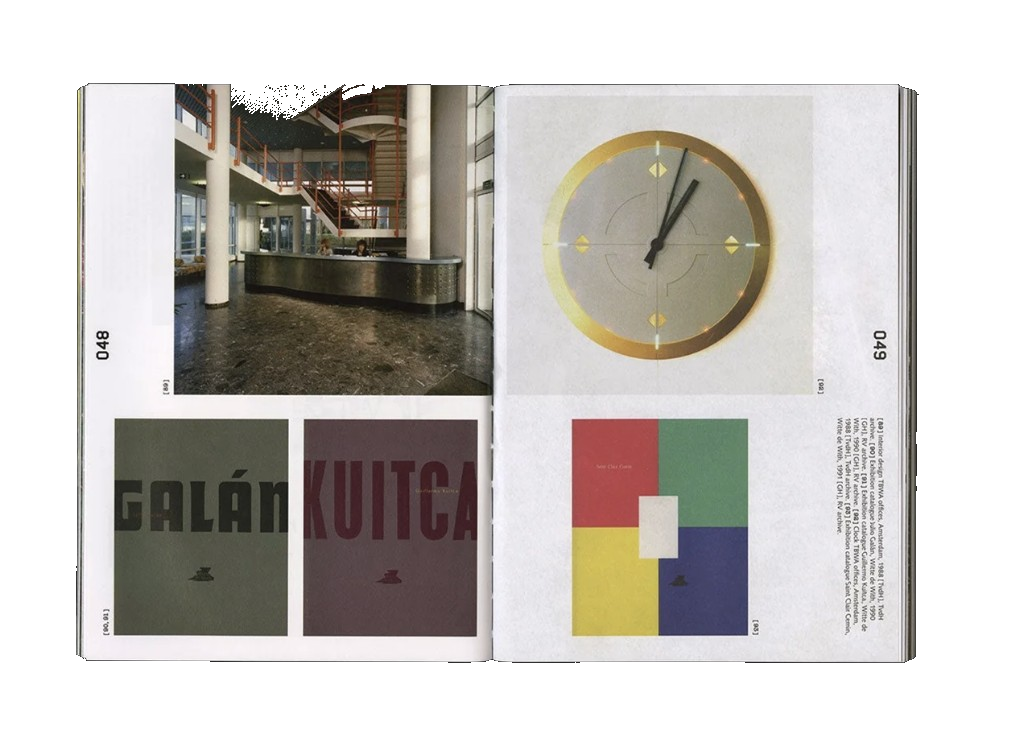
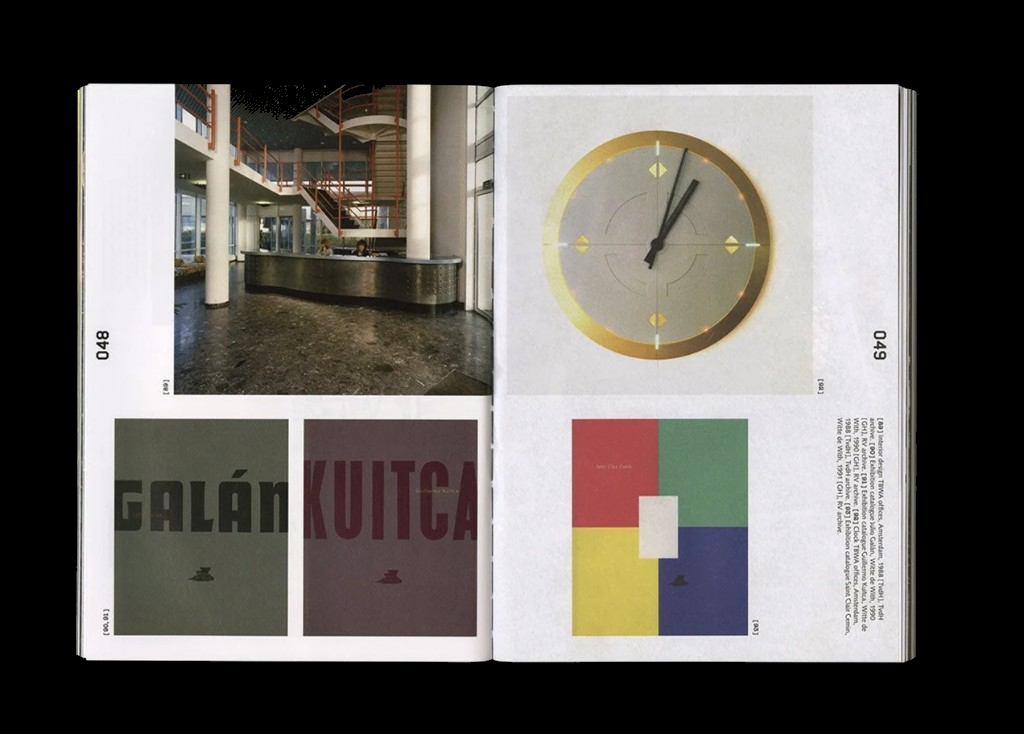
yes

diff --git a/src/App.vue b/src/App.vue
@@ -164,7 +164,7 @@ watch(article02Open, (isOpen) => {
         :src="assetUrl('canvas/chord.png')" alt="Coiled cable" />
       <CanvasItem :left="2070" :top="1889" :width="500" :rotate="3" :interactive="false"
         :src="assetUrl('canvas/rock.png')" alt="Weathered rock" />
-      <CanvasItem :left="1232" :top="107" :width="280" :rotate="-5" :interactive="false"
+      <CanvasItem :left="1232" :top="107" :width="280" :rotate="3" :interactive="false"
         :src="assetUrl('canvas/guitarpedal.png')" alt="Chorus and flanger guitar pedal" />
       <CanvasItem :left="1604" :top="1686" :width="329" :rotate="-4" :interactive="false"
         :src="assetUrl('canvas/coffee.png')" alt="Cup of coffee" />

diff --git a/src/components/WindowCloseButton.vue b/src/components/WindowCloseButton.vue
@@ -14,11 +14,12 @@ defineEmits(['click'])
   top: 4px;
   right: 4px;
   z-index: 2;
-  width: 20px;
-  height: 20px;
+  width: 32px;
+  height: 32px;
   padding: 0;
   border: 0px solid #000;
   border-radius: 50%;
+  overflow: hidden;
   background: var(--color-gray);
   cursor: pointer;
   outline: none;
@@ -42,7 +43,7 @@ defineEmits(['click'])
   position: absolute;
   top: 50%;
   left: 50%;
-  width: 16px;
+  width: 32px;
   height: 1px;
   background: #000;
   transform-origin: center;

diff --git a/src/components/ArticleWindow.vue b/src/components/ArticleWindow.vue
@@ -178,6 +178,7 @@ onUnmounted(() => {
 
 .article-panel__content {
   flex: 1;
+  margin-top: 32px;
 }
 
 .article-panel :deep(.window-close) {
